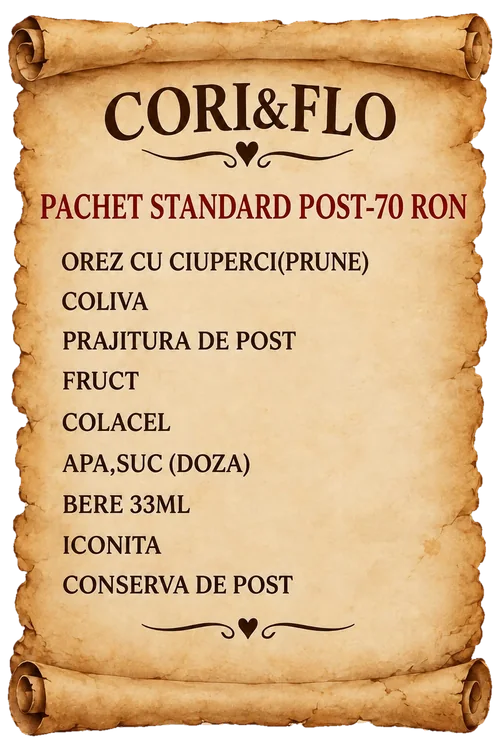
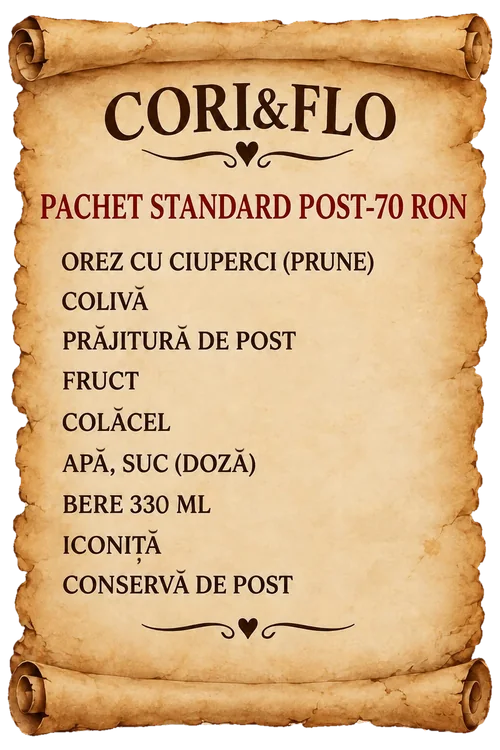
Fix packages

Changed region(s): [[0.24, 0.5827, 0.51, 0.7053], [0.54, 0.3373, 0.75, 0.368]]

diff --git a/src/data/content.js b/src/data/content.js
@@ -104,7 +104,6 @@ export const PACKAGES = [
       'Transport local cu mașina funerară',
       'Acte și ajutor de deces',
     ],
-    price: 'de la 1590 lei',
     featured: false,
   },
   {
@@ -117,7 +116,6 @@ export const PACKAGES = [
       'Pregătirea și cosmetizarea defunctului',
       'Transport, acte, programare slujbă',
     ],
-    price: 'de la 2990 lei',
     featured: true,
     badge: 'Cel mai ales',
   },
@@ -131,7 +129,6 @@ export const PACKAGES = [
       'Repatriere și incinerare',
       'Consiliere gratuită la telefon',
     ],
-    price: 'preț la cerere',
     featured: false,
   },
 ]
@@ -141,15 +138,15 @@ export const PACKAGES = [
 export const MENUS = [
   {
     img: 'meniu-standard',
-    name: 'Pachet standard',
+    name: 'Pachet standard dulce',
     price: '65 lei',
-    alt: 'Pachet standard, 65 lei: orez cu lapte, colivă, prăjitură, fruct, colăcel, apă, suc la doză, bere, iconiță și conservă de post',
+    alt: 'Pachet standard dulce, 65 lei: orez cu lapte, colivă, prăjitură, fruct, colăcel, apă, suc la doză, bere 330 ml, iconiță și conservă de post',
   },
   {
     img: 'meniu-post',
     name: 'Pachet de post',
     price: '70 lei',
-    alt: 'Pachet standard de post, 70 lei: orez cu ciuperci sau cu prune, colivă, prăjitură de post, fruct, colăcel, apă, suc la doză, bere, iconiță și conservă de post',
+    alt: 'Pachet standard de post, 70 lei: orez cu ciuperci sau cu prune, colivă, prăjitură de post, fruct, colăcel, apă, suc la doză, bere 330 ml, iconiță și conservă de post',
   },
 ]
 

diff --git a/src/components/MenuPacks.jsx b/src/components/MenuPacks.jsx
@@ -17,7 +17,7 @@ export default function MenuPacks() {
       <Reveal className="zone__head">
         <h3 className="zone__title">Pachete pentru pomană</h3>
         <p className="zone__text">
-          Pregătim pachete gata de împărțit, în două variante: standard și de post. Apăsați pe un
+          Pregătim pachete gata de împărțit, în două variante: dulce și de post. Apăsați pe un
           meniu ca să îl vedeți mărit.
         </p>
       </Reveal>

diff --git a/src/components/Sections.css b/src/components/Sections.css
@@ -194,15 +194,6 @@
 .pack--featured .pack__list li::before {
   background: var(--gold-soft);
 }
-.pack__price {
-  margin: auto 0 0;
-  font-family: var(--serif);
-  font-size: 22px;
-  color: var(--brown);
-}
-.pack--featured .pack__price {
-  color: var(--gold-soft);
-}
 .pack__foot {
   margin: 26px 0 0;
   font-size: 14px;

diff --git a/src/components/Packages.jsx b/src/components/Packages.jsx
@@ -32,7 +32,6 @@ export default function Packages() {
                 <li key={it}>{it}</li>
               ))}
             </ul>
-            <p className="pack__price">{p.price}</p>
           </Reveal>
         ))}
       </div>
